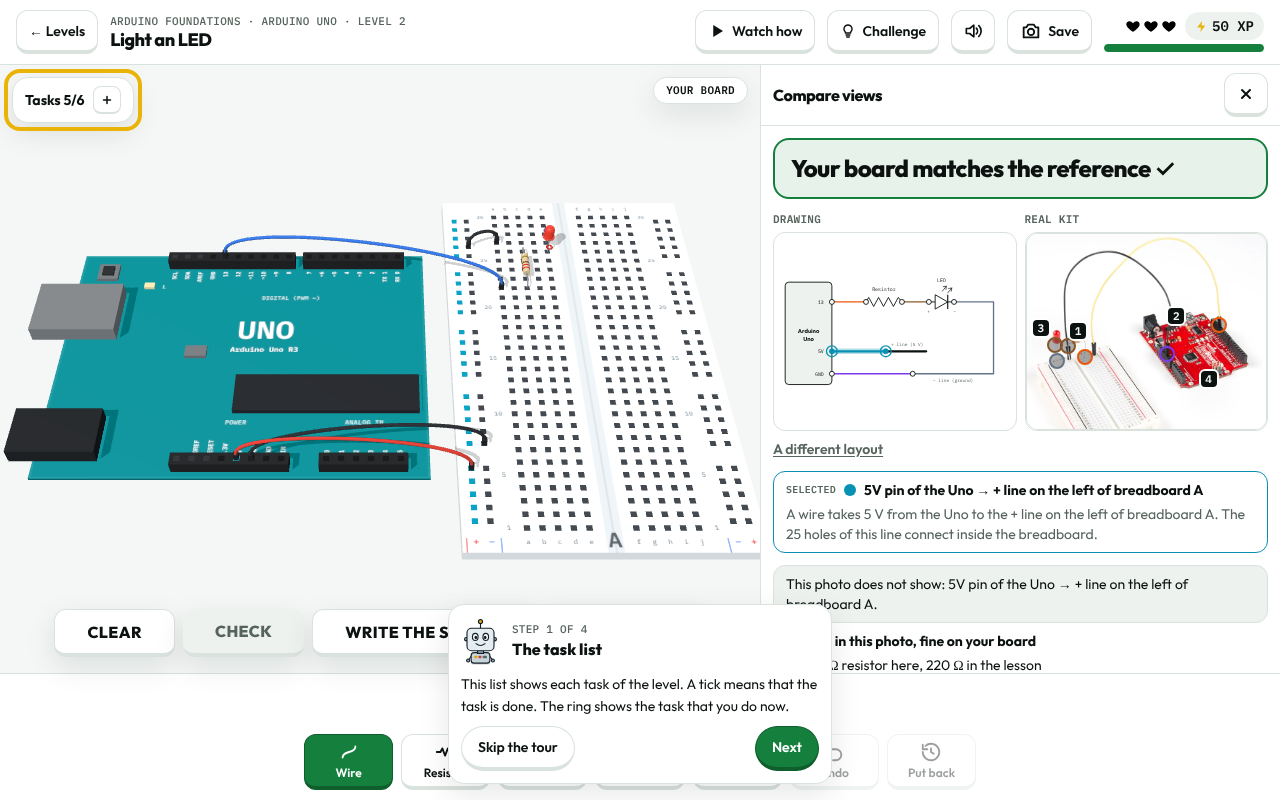
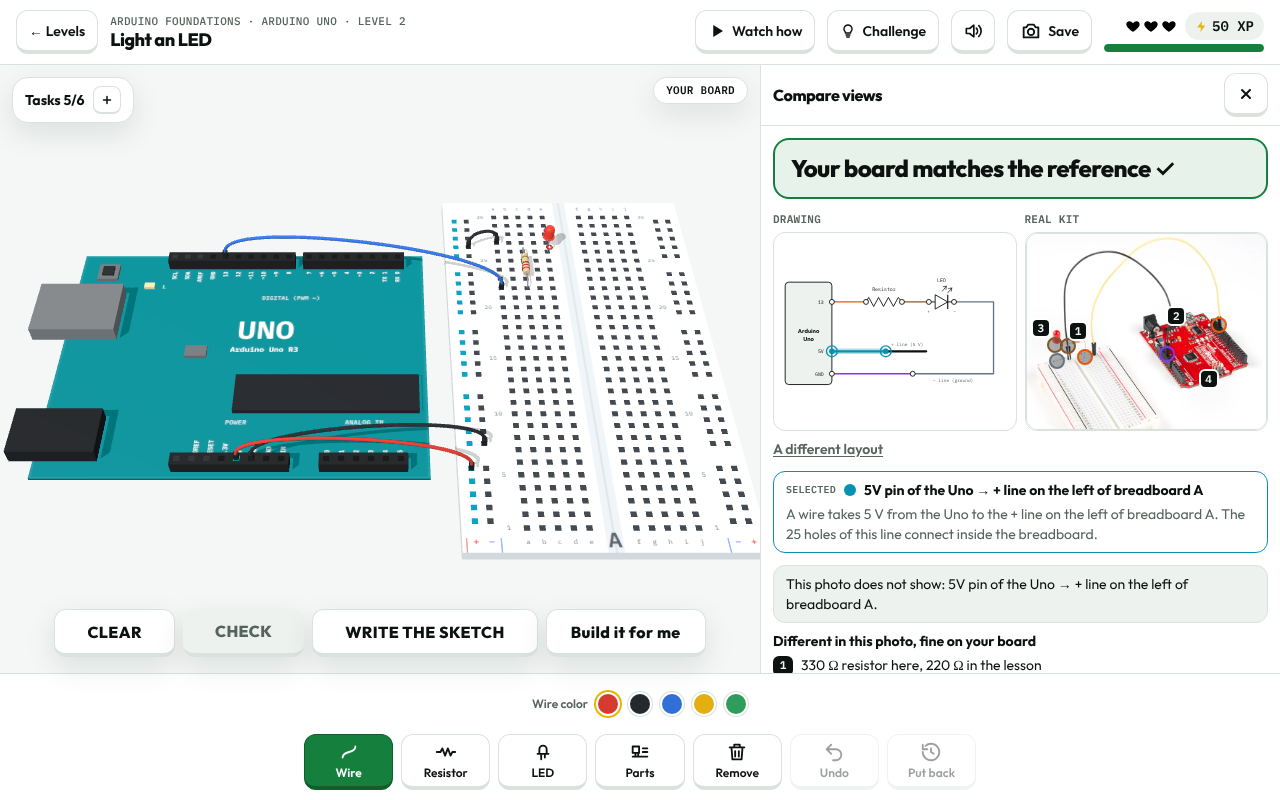
Compare views: the task pop-up and the tour wait while the panel is open
The off wire was under the task pop-up on a laptop, and the first-visit tour
covered the panel on a phone. While Compare views is open, both wait; a
mistake pop-up still shows. e2e flow 7 checks that they hide and come back.

Claude-Session: https://claude.ai/code/session_01Sp9FnLv9B8TTv512rQFhNC

diff --git a/components/build/build-view.tsx b/components/build/build-view.tsx
@@ -166,7 +166,10 @@ function BuildBoard({ user, project, levelId, position, eyebrow, title, goal, ta
   // The Clear and Check row shows while the learner builds. The intro, the Check card or the code panel hides it.
   const actions = progress.phase !== "intro" && !(progress.phase === "ready_to_check" && levelCheck.state.open) && !codeOpen && !alive;
   // The first-visit tour waits while a pop-up, the intro clip, the Check card, the code panel or the demo is open (issue #123).
+  // Compare views is open: its answer is the thing to read, so the task pop-up and the tour wait (issue #222).
+  const comparing = useBoard((s) => s.compare !== null);
   const tourBusy =
+    comparing ||
     watching ||
     progress.phase === "intro" ||
     progress.phase === "mistake" ||
@@ -292,7 +295,7 @@ function BuildBoard({ user, project, levelId, position, eyebrow, title, goal, ta
         <div className="relative min-h-0 min-w-0 flex-1">
           {/* The finished board, so a resistor or LED task glows the holes of the clip (issue #101). */}
           <FinishContext value={finished?.order}>
-            <BuildScene>{laptop && <PinnedPopup tasks={tasks} mascot={mascot} />}</BuildScene>
+            <BuildScene>{laptop && !(comparing && progress.phase === "task") && <PinnedPopup tasks={tasks} mascot={mascot} />}</BuildScene>
           </FinishContext>
           {/* The notice bar, and the task list below it. Only the panels take clicks; the board gets the rest. Above the Clear and Check row, the column stops. */}
           {progress.phase !== "intro" && !alive && (

diff --git a/e2e/flow7-compare-views.spec.ts b/e2e/flow7-compare-views.spec.ts
@@ -146,11 +146,19 @@ test("Compare views gives the answer first, with linked views and marked photo n
   await expect(verdict.locator("p").first()).toHaveText("Pin 13's wire goes to row 18. The reference uses row 22.");
   await expect(verdict).toContainText(text.verdict.mark);
   await expect(page.getByTestId("selected-label")).toHaveText("Pin 13 of the Uno → Resistor, first leg");
+  // The board changed, so task 3 is open again. Its pop-up and the first-visit tour wait while the panel is open.
+  const taskPopup = page.getByRole("heading", { name: /^Connect pin 13/ });
+  const tour = page.getByRole("heading", { name: "The task list" });
+  await expect(taskPopup).toBeHidden();
+  await expect(tour).toBeHidden();
   if (laptop) {
     await expect.poll(() => magentaPixels(page), { message: "the off wire is magenta on the 3D board" }).toBeGreaterThan(80);
   }
   await shot(page, `${name}-2-wire-off`);
   await panel.getByRole("button", { name: text.close }).click();
+  // The panel closes: the task pop-up and the tour come back.
+  await expect(taskPopup).toBeVisible();
+  await expect(tour).toBeVisible();
   if (laptop) await expect.poll(() => magentaPixels(page), { message: "no magenta when the panel is closed" }).toBeLessThan(20);
 
   // 5. The Check flow is as before: the board back as the reference, a sketch that passed, and the real Check.

diff --git a/components/build/popups.tsx b/components/build/popups.tsx
@@ -456,6 +456,8 @@ function PopupLayerBody({ level, check }: { level: LevelInfo; check: CheckProps 
   const laptop = useLaptop();
   const progress = useBoard((s) => s.progress);
   const done = useBoard((s) => s.done);
+  // While Compare views is open, the task waits in the task list (issue #222). A mistake still shows: it has the button to go on.
+  const comparing = useBoard((s) => s.compare !== null);
   const task = level.tasks[progress.index];
   const note = done !== null ? level.tasks[done] : undefined;
 
@@ -468,7 +470,7 @@ function PopupLayerBody({ level, check }: { level: LevelInfo; check: CheckProps 
   } else if (!laptop && progress.phase === "mistake" && progress.mistake) {
     body = <MistakeBody mistake={progress.mistake} />;
     mistake = true;
-  } else if (!laptop && progress.phase === "task" && task) body = <TaskBody task={task} total={level.tasks.length} note={note} compact />;
+  } else if (!laptop && !comparing && progress.phase === "task" && task) body = <TaskBody task={task} total={level.tasks.length} note={note} compact />;
   if (!body) return null;
 
   return laptop ? (

diff --git a/prompts/compare-answer-first.md b/prompts/compare-answer-first.md
@@ -17,3 +17,7 @@
    The flow found a bug in the first change: on a phone, while the panel was open, "Write the sketch" went onto two lines in the row (77 px high, Clear is 44 px). Now the button stays on one line, and the row can wrap while the panel is open.
 
    The e2e helpers in `e2e/levels.ts` did not work on the live Supabase project: its tasks are older than `content/projects/` (level 1 has 4 tasks, the file has 3), and since #218 only level 1 opens its clip by itself. Claude changed the helpers only on the local machine for the run, and did not commit that change.
+
+3. Answers to the questions after the e2e run: "1. No" (no pull request now) and "4. Absolutely ye" (hide the task pop-up and the first-visit tour while Compare views is open). No answer to 2 (re-seed the live database) and 3 (fix the clip wait in the e2e helper), so Claude did not do them.
+
+   While the panel is open, the task pop-up (laptop and phone) and the first-visit tour wait. A mistake pop-up still shows, because it has the button to go on. When the panel closes, the task pop-up and the tour come back. Flow 7 checks this.
